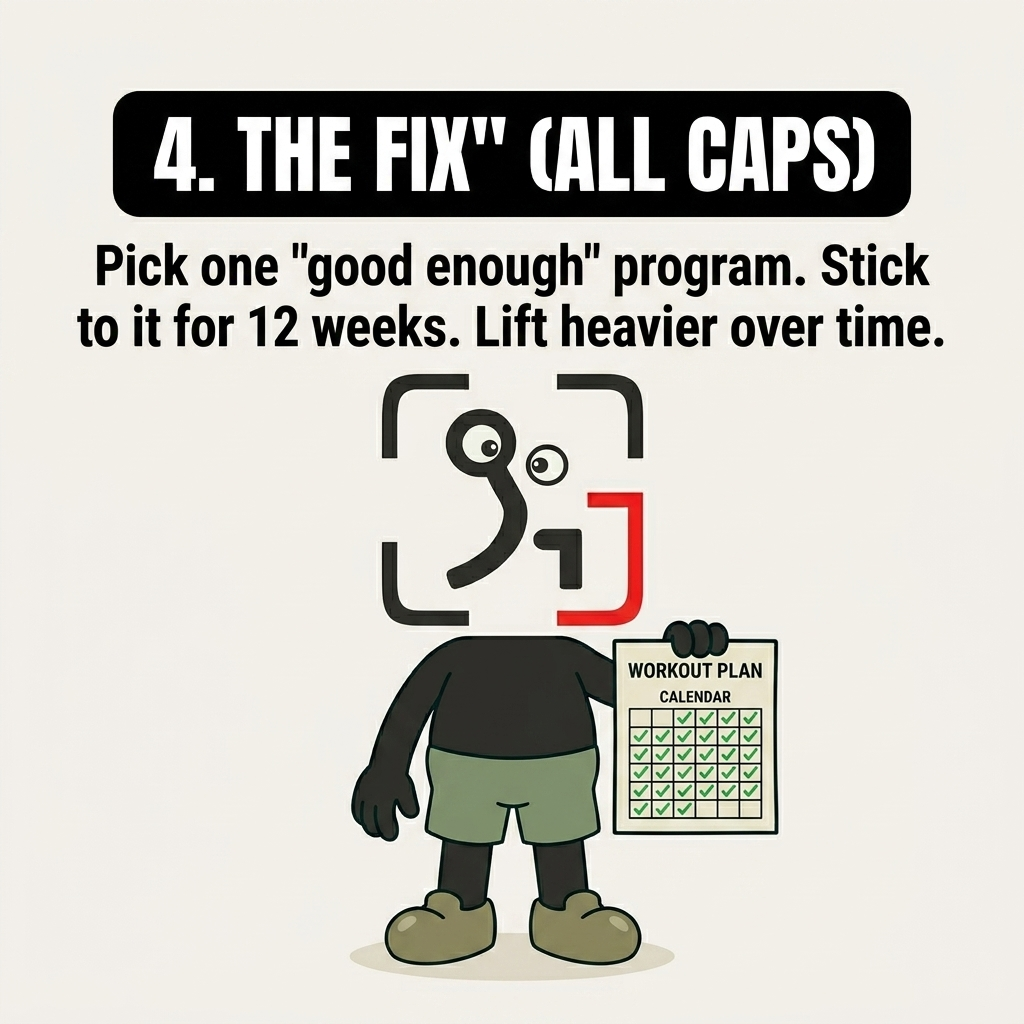
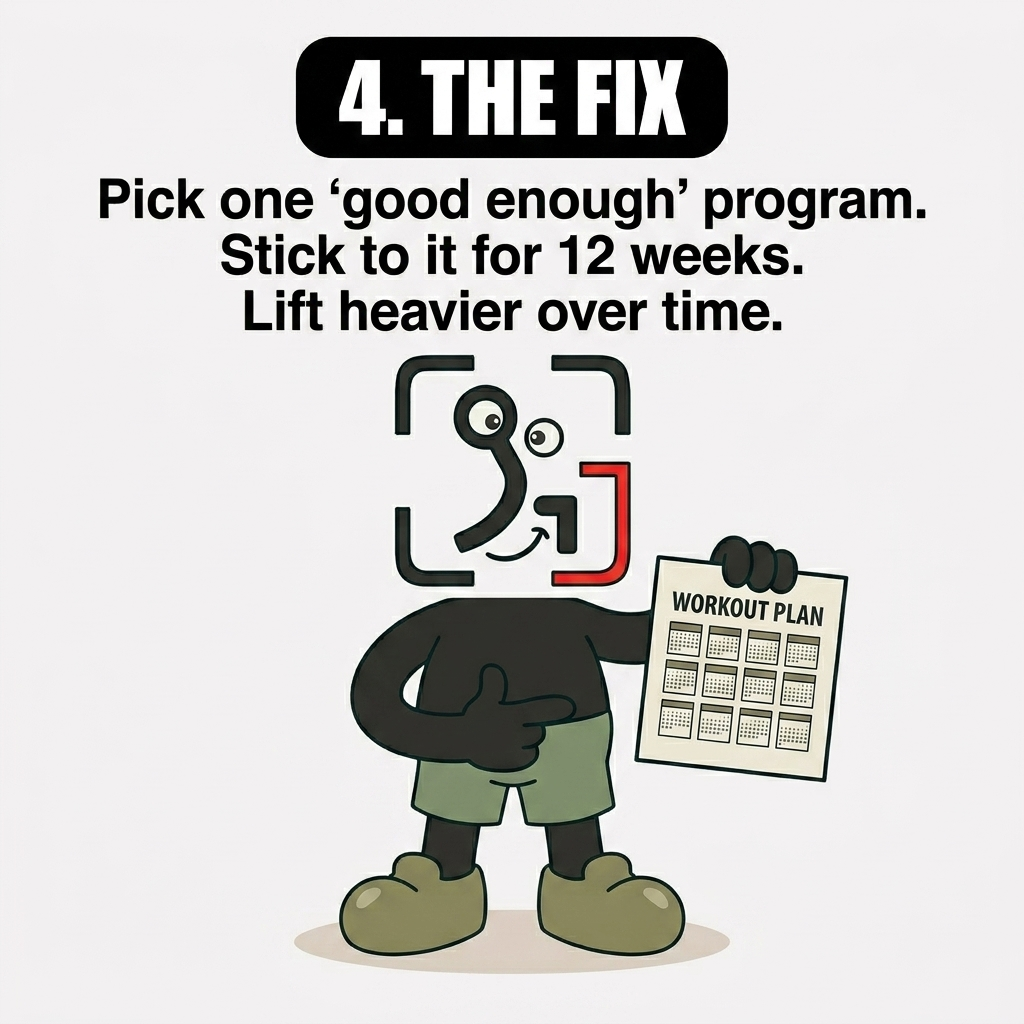
chore(assets): fix slide 4 typo and strictly define hyphen file naming in tiktok skill

Changed region(s): [[0.0625, 0.0312, 0.9375, 0.9688]]

diff --git a/.agent/skills/tiktok-carousel-generator/SKILL.md b/.agent/skills/tiktok-carousel-generator/SKILL.md
@@ -257,7 +257,7 @@ CRITICAL EXACT FILE NAMING YOU MUST USE TO SAVE THE IMAGES:
 - `slide-4.png`
 - `slide-5.png`
 
-Do NOT name them `cover.png` or `slide1.png`. The web gallery explicitly searches for `slide-0-cover` and `slide-[N]` with dashes. Failure to use this exact naming convention will result in broken images on the website.
+Do NOT name them `cover.png` or `slide1.png` or `slide_1.png`. You MUST use HYPHENS (-), NOT UNDERSCORES (_). The web gallery explicitly searches for `slide-0-cover` and `slide-[N]` with dashes. Failure to use this exact naming convention will result in broken images on the website.
 
 ---
 
@@ -303,8 +303,11 @@ This step copies the finished slides and `content.md` to a dedicated folder insi
 1. **Copy all assets to the iCloud drafts folder:**
    ```bash
    SLUG="[slug]"
-   DEST="$HOME/Library/Mobile Documents/com~apple~CloudDocs/TikTok-Drafts/$SLUG"
+   # ABSOLUTE PATH MUST BE USED EXACTLY AS WRITTEN:
+   DEST="/Users/michael.rode/Library/Mobile Documents/com~apple~CloudDocs/TikTok-Drafts/$SLUG"
    mkdir -p "$DEST"
+   
+   # COPY ONLY FILES WITH HYPHENS (e.g., slide-1.png NEVER slide_1.png)
    cp assets/tiktok/comic/$SLUG/slide-*.png "$DEST/"
    cp assets/tiktok/comic/$SLUG/content.md "$DEST/"
    ```
